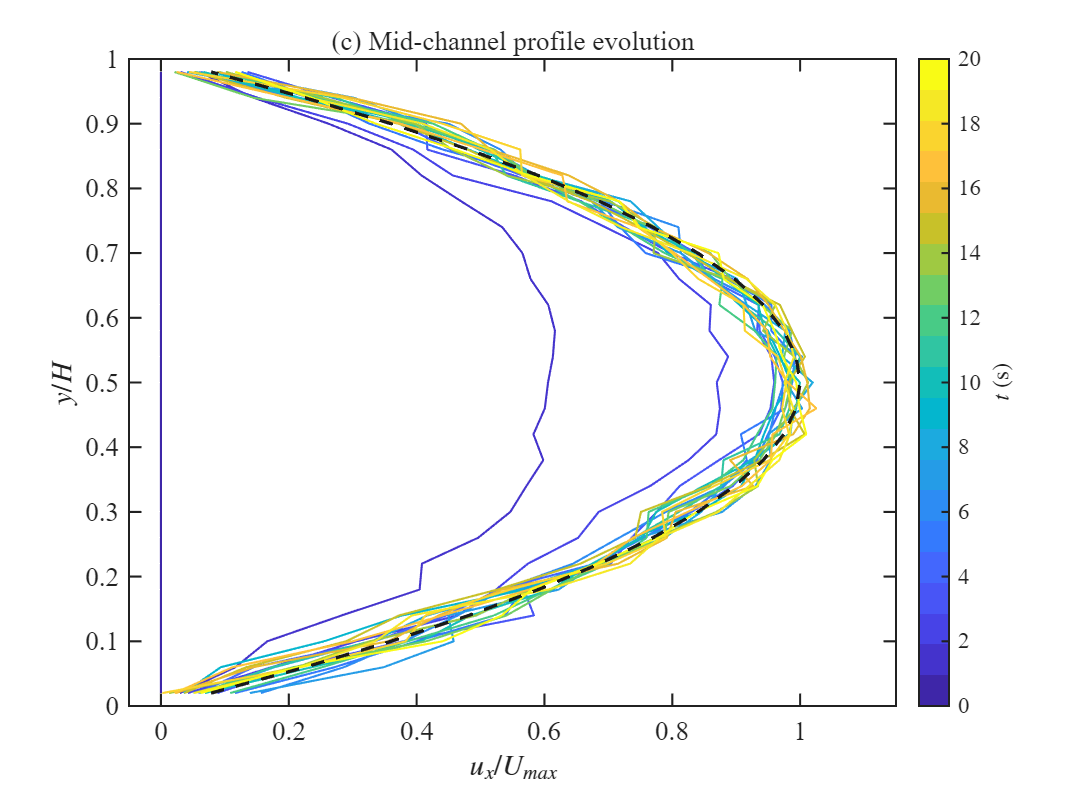
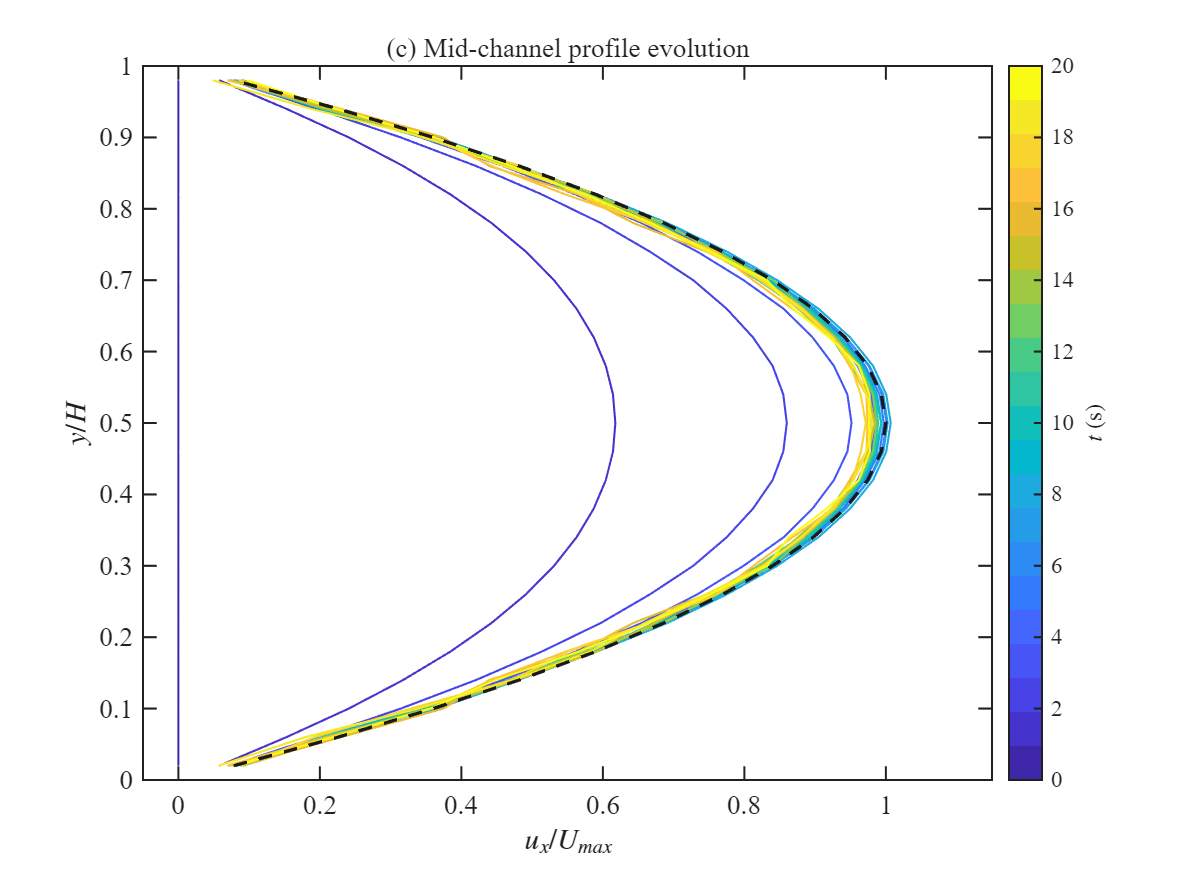
fix(poiseuille): 稳定厚壁通道流动并抑制速度脉动
变更内容：
- 将二维泊肃叶算例主推进从单层 CFL 单步改为 dual-criteria 时间推进：
  外层使用对流/黏性时间步，内层执行声学子步压力/密度松弛。
- 将壁面几何从单层 shell 改为 BW=4dp 的厚壁粒子区。
- 从主循环中移除硬 `bounding_from_wall`，改为依赖物理算子内部已有的虚拟壁压与镜像壁速机制。
- 将 transport correction 改为外层步执行，并为 MEX 增加可配置 `transport_coeff` 参数，当前采用 0.1 的保守设置。
- 周期边界改为 immediate wrap，并保留 minimum-image 邻居搜索。
- 放行并新增回归测试：
  - `test_build_wall_particles_thick`
  - `test_poiseuille_uniformity_regression`
  - `test_poiseuille_longtime_order_regression`

已定位的关键问题（BUG）：
- 原实现采用单层 CFL + 每步较强 transport correction，导致近壁横向扰动持续放大。
- 原单层 shell 壁面支撑不足，且主循环末尾的硬 wall clip 会持续向系统注入非物理扰动。
- 原周期边界仅做包裹/重建，边界邻域连续性不够稳定。

验证结果：
- `test_build_wall_particles_thick: PASS`
- `test_poiseuille_smoke: PASS`
- `test_poiseuille_uniformity_regression: PASS`
- `test_poiseuille_longtime_order_regression: PASS`
- `test_sph_physics_modes: PASS`
- 默认 20s 全长算例完成，`L2 = 2.43%`

效果摘要：
- `u_y RMS` 从约 `16.56% Umax` 降到约 `1.32% Umax`
- 中心带 `u_x std` 降到约 `0.72% Umax`
- 默认 20s 速度场已基本消除沿 x 的明显条纹脉动

风险与影响：
- 当前改动已显著改善速度脉动，但周期边界尚未实现显式 ghost linked-list 插入。
- 长时结果中仍存在层状轻微起伏；当前更像“层内小波纹”，不再是先前的明显横向脉动。
- `.gitignore` 仅放行了本次新增的 3 个测试文件，其余 `tests/` 仍保持忽略策略。

下一步修复计划：
1. 继续完善周期边界邻域连续性处理。
2. 优先检查 `integration_2nd` 的耗散项和周期边界邻域连续性，而不是继续盲调 transport 系数。
3. 如需提交发表/归档结果，可补一份“修改前后关键指标对比”文档或图表。

diff --git a/SPH_Poiseuille.m b/SPH_Poiseuille.m
@@ -1,6 +1,6 @@
 %% SPH_Poiseuille.m
 % 基于 SPH（光滑粒子流体动力学）方法的二维平板泊肃叶流动模拟
-% 采用弱可压缩 SPH + 单层 CFL 时间步进
+% 采用弱可压缩 SPH + dual-criteria 时间步进
 % 计算加速：C/MEX + OpenMP（邻居搜索与物理计算分离）
 
 clear; clc; close all;
@@ -52,7 +52,7 @@ t_end = get_ini_numeric(cfg, 'simulation', 'end_time');
 output_interval = get_ini_numeric(cfg, 'simulation', 'output_interval');
 sort_interval = round(get_ini_numeric(cfg, 'simulation', 'sort_interval'));
 restart_from_file = round(get_ini_numeric(cfg, 'simulation', 'restart_from_file'));
-fprintf('边界模式: 单层 shell 壁面 + 唯一 no-slip\n');
+fprintf('边界模式: 厚壁粒子 + 算子内 no-slip / no-penetration\n');
 
 % 几何参数自动对齐：确保 DL/dp 和 DH/dp 为整数（周期边界 + 均匀粒子排列）
 DL_raw = DL;  DH_raw = DH;
@@ -66,18 +66,19 @@ end
 gravity_g = 12.0 * mu * U_bulk / (rho0 * DH^2);  % 等效体积力（驱动泊肃叶流）
 U_max = 1.5 * U_bulk;                             % 中心线最大速度（2D平板泊肃叶流解析关系）
 h = 1.3 * dp;                                   % 光滑长度
-wall_thickness = dp;                             % shell 壁面厚度
-periodic_buffer = 4.0 * dp;                      % 周期性缓冲层宽度
+wall_thickness = 4.0 * dp;                       % 厚壁宽度，对齐 SPHinXsys 的 BW = 4dp
+periodic_buffer = 0.0;                           % 周期边界立即包裹，不保留额外缓冲带
+transport_coeff = 0.1;                           % dual-criteria 下保守的 shifting 系数
 p0 = rho0 * c_f^2;                              % 参考压力（弱可压缩状态方程）
 inv_sigma0 = dp^2;                               % 核函数归一化因子的倒数
 nu = mu / rho0;                                  % 运动粘度
 
 fprintf('参数: DL=%.3f, DH=%.3f, dp=%.4f, h=%.4f\n', DL, DH, dp, h);
 fprintf('参数: rho0=%.3f, mu=%.3f, U_bulk=%.6f, c_f=%.3f\n', rho0, mu, U_bulk, c_f);
-fprintf('派生: g=%.6f, Umax=%.6f, p0=%.6f\n', gravity_g, U_max, p0);
+fprintf('派生: g=%.6f, Umax=%.6f, p0=%.6f, transport_coeff=%.3f\n', gravity_g, U_max, p0, transport_coeff);
 fprintf('仿真: end_time=%.3f, output_interval=%.3f, sort_interval=%d\n', t_end, output_interval, sort_interval);
-fprintf('周期缓冲层: buffer=%.4f (%.2f*h)\n', periodic_buffer, periodic_buffer / h);
-fprintf('壁面: 单层 shell, thickness=%.4f\n', wall_thickness);
+fprintf('周期边界: immediate wrap + minimum-image neighbor search\n');
+fprintf('壁面: 厚壁粒子区, BW=%.4f (%.0f*dp)\n', wall_thickness, wall_thickness / dp);
 
 if sort_interval <= 0
     error('sort_interval 必须为正整数。');
@@ -91,8 +92,8 @@ y_fluid = (dp/2 : dp : DH - dp/2)';
 pos_fluid = [X_fluid(:), Y_fluid(:)];
 n_fluid = size(pos_fluid, 1);
 
-% 单层 shell 壁面粒子：上下各一层中面，显式携带厚度语义
-[pos_wall, ~, wall_measure, wall_thickness_arr] = build_shell_wall_particles(DL, DH, dp, wall_thickness);
+% 厚壁粒子区：上下各 BW 厚度的规则壁面粒子层
+[pos_wall, wall_normal, wall_measure, wall_thickness_arr] = build_shell_wall_particles(DL, DH, dp, wall_thickness);
 n_wall = size(pos_wall, 1);
 n_total = n_fluid + n_wall;
 
@@ -184,6 +185,7 @@ cfg = struct( ...
     'p0', p0, ...
     'inv_sigma0', inv_sigma0, ...
     'nu', nu, ...
+    'transport_coeff', transport_coeff, ...
     'config_signature', config_signature);
 
 geom = struct( ...
@@ -192,6 +194,7 @@ geom = struct( ...
     'n_total', n_total, ...
     'mass', mass, ...
     'wall_vel', wall_vel, ...
+    'wall_normal', wall_normal, ...
     'wall_measure', wall_measure, ...
     'wall_thickness_arr', wall_thickness_arr);
 
@@ -233,34 +236,55 @@ monitor = struct( ...
 monitor.profile_times(end + 1, 1) = state.t;
 monitor.mid_profile_u(:, end + 1) = u_mid_init;
 
-%% S6: 主循环（单层 CFL 时间步进）
-% 每一步使用统一时间步 dt_step，依次完成力计算、传输修正和两阶段积分。
+%% S6: 主循环（dual-criteria 时间步进）
+% 每个外层对流/黏性步 Dt 只做一次密度求和、核修正、粘性力和传输修正，
+% 然后在 Dt 内部执行多次声学子步推进压力/密度松弛。
 while state.t < cfg.t_end - 1e-12
     target_time = min(state.t + cfg.output_interval, cfg.t_end);
 
     while state.t < target_time - 1e-12
         state.step = state.step + 1;
 
-        dt_step = cfl_time_step(state.vel(1:geom.n_fluid, :), cfg.c_f, cfg.h, target_time - state.t);
-        dt_step = min(dt_step, cfg.t_end - state.t);
-        if dt_step < 1e-14
-            error('时间步长退化为零（dt=%.2e），仿真在 t=%.6f step=%d 发散，请检查 shell 壁面设置。', ...
-                dt_step, state.t, state.step);
+        remain_outer = min(target_time - state.t, cfg.t_end - state.t);
+        Dt_outer = advection_viscous_time_step( ...
+            state.vel(1:geom.n_fluid, :), state.force(1:geom.n_fluid, :), ...
+            state.force_prior(1:geom.n_fluid, :), geom.mass(1:geom.n_fluid), ...
+            cfg.U_bulk, cfg.nu, cfg.h, remain_outer);
+        if Dt_outer < 1e-14
+            error('外层时间步退化为零（Dt=%.2e），仿真在 t=%.6f step=%d 发散。', ...
+                Dt_outer, state.t, state.step);
         end
 
-        vel_before_step = state.vel;
-        state = advance_one_step_mex(state, geom, neighbor, cfg, dt_step, physics_mex_name);
-        [monitor.tau_num_bottom, monitor.tau_num_top] = wall_shear_monitor_mex( ...
-            neighbor, state.pos, vel_before_step, geom.wall_vel, state.Vol, state.B, ...
-            geom.n_fluid, cfg.DL, cfg.DH, cfg.mu, cfg.h, physics_mex_name);
+        [state.rho, state.Vol, state.B] = density_correction_mex( ...
+            neighbor, geom.mass, geom.n_fluid, geom.n_total, cfg, physics_mex_name);
+        state.force_prior = compute_force_prior_mex(state, geom, neighbor, cfg, physics_mex_name);
+        state.pos = transport_correction_mex(state.pos, state.Vol, state.B, neighbor, geom, cfg, physics_mex_name);
 
-        [state.pos, wrapped] = periodic_bounding(state.pos, geom.n_fluid, cfg.DL, cfg.periodic_buffer);
-        if wrapped
-            neighbor = build_neighbor_cache(state.pos, geom.n_fluid, geom.n_total, cfg.h, cfg.DL, neighbor_mex_name);
+        relaxation_time = 0.0;
+        dt_inner = 0.0;
+        while relaxation_time < Dt_outer - 1e-12
+            dt_inner = cfl_time_step(state.vel(1:geom.n_fluid, :), cfg.c_f, cfg.h, Dt_outer - relaxation_time);
+            dt_inner = min(dt_inner, target_time - state.t);
+            dt_inner = min(dt_inner, cfg.t_end - state.t);
+            if dt_inner < 1e-14
+                error('声学时间步退化为零（dt=%.2e），仿真在 t=%.6f step=%d 发散。', ...
+                    dt_inner, state.t, state.step);
+            end
+
+            [state.rho, state.p, state.pos, state.force, state.drho_dt] = integration_1st_mex( ...
+                state, geom, neighbor, cfg, dt_inner, physics_mex_name);
+            state.vel = update_velocity(state.vel, geom.mass, state.force_prior, state.force, geom.n_fluid, geom.n_total, dt_inner);
+            [state.pos, state.drho_dt] = integration_2nd_mex( ...
+                state, geom, neighbor, dt_inner, physics_mex_name);
+            state.rho(1:geom.n_fluid) = state.rho(1:geom.n_fluid) + state.drho_dt(1:geom.n_fluid) * (0.5 * dt_inner);
+            state.p(1:geom.n_fluid) = cfg.p0 * (state.rho(1:geom.n_fluid) ./ cfg.rho0 - 1.0);
+            state.p(geom.n_fluid+1:end) = 0.0;
+
+            relaxation_time = relaxation_time + dt_inner;
+            state.t = state.t + dt_inner;
         end
 
         [state.pos, ~] = periodic_bounding(state.pos, geom.n_fluid, cfg.DL, cfg.periodic_buffer);
-        state.pos = bounding_from_wall(state.pos, geom.n_fluid, cfg.DH, cfg.dp);
         state.vel(geom.n_fluid+1:end, :) = 0.0;
 
         if mod(state.step, cfg.sort_interval) == 0 && state.step ~= 1
@@ -270,15 +294,17 @@ while state.t < cfg.t_end - 1e-12
                 state.force_prior, state.force, state.p, state.Vol, state.B, ...
                 geom.n_fluid, cfg.DL, cfg.h);
         end
-        neighbor = build_neighbor_cache(state.pos, geom.n_fluid, geom.n_total, cfg.h, cfg.DL, neighbor_mex_name);
 
-        state.t = state.t + dt_step;
+        neighbor = build_neighbor_cache(state.pos, geom.n_fluid, geom.n_total, cfg.h, cfg.DL, neighbor_mex_name);
+        [monitor.tau_num_bottom, monitor.tau_num_top] = wall_shear_monitor_mex( ...
+            neighbor, state.pos, state.vel, geom.wall_vel, state.Vol, state.B, ...
+            geom.n_fluid, cfg.DL, cfg.DH, cfg.mu, cfg.h, physics_mex_name);
 
         if mod(state.step, 20) == 0
             vmax = max(vecnorm(state.vel(1:geom.n_fluid, :), 2, 2));
-            fprintf('step=%d, t=%.6f/%.6f, dt=%.4e, pairs=%d, vmax=%.4f\n', ...
-                state.step, state.t, cfg.t_end, dt_step, numel(neighbor.pair_i), vmax);
-            fprintf('  [shell-noslip] tau_bot=%.4f, tau_top=%.4f, tau_target=%.4f\n', ...
+            fprintf('step=%d, t=%.6f/%.6f, Dt=%.4e, dt=%.4e, pairs=%d, vmax=%.4f\n', ...
+                state.step, state.t, cfg.t_end, Dt_outer, dt_inner, numel(neighbor.pair_i), vmax);
+            fprintf('  [thick-wall-noslip] tau_bot=%.4f, tau_top=%.4f, tau_target=%.4f\n', ...
                 monitor.tau_num_bottom, monitor.tau_num_top, monitor.tau_target);
         end
     end
@@ -534,6 +560,65 @@ function neighbor = build_neighbor_cache(pos, n_fluid, n_total, h, DL, neighbor_
         'dW_ij', dW_ij);
 end
 
+function [rho, Vol, B] = density_correction_mex(neighbor, mass, n_fluid, n_total, cfg, physics_mex_name)
+    [rho, Vol, B] = feval( ...
+        physics_mex_name, 'density_correction', ...
+        neighbor.pair_i, neighbor.pair_j, neighbor.dx_ij, neighbor.dy_ij, neighbor.r_ij, neighbor.W_ij, neighbor.dW_ij, ...
+        mass, n_fluid, n_total, cfg.rho0, cfg.h, cfg.inv_sigma0);
+end
+
+function force_prior = compute_force_prior_mex(state, geom, neighbor, cfg, physics_mex_name)
+    force_prior = feval( ...
+        physics_mex_name, 'viscous_force', ...
+        neighbor.pair_i, neighbor.pair_j, neighbor.dx_ij, neighbor.dy_ij, neighbor.r_ij, neighbor.dW_ij, ...
+        state.vel, state.Vol, state.B, cfg.mu, cfg.h, geom.n_fluid, geom.n_total, geom.mass, geom.wall_vel);
+    force_prior(1:geom.n_fluid, 1) = force_prior(1:geom.n_fluid, 1) + geom.mass(1:geom.n_fluid) * cfg.gravity_g;
+    force_prior(geom.n_fluid+1:end, :) = 0.0;
+end
+
+function pos = transport_correction_mex(pos, Vol, B, neighbor, geom, cfg, physics_mex_name)
+    pos = feval( ...
+        physics_mex_name, 'transport_correction', ...
+        neighbor.pair_i, neighbor.pair_j, neighbor.dx_ij, neighbor.dy_ij, neighbor.r_ij, neighbor.dW_ij, ...
+        Vol, B, pos, cfg.h, geom.n_fluid, geom.n_total, cfg.transport_coeff);
+end
+
+function [rho, p, pos, force, drho_dt] = integration_1st_mex(state, geom, neighbor, cfg, dt_step, physics_mex_name)
+    [rho, p, pos, force, drho_dt] = feval( ...
+        physics_mex_name, 'integration_1st', ...
+        neighbor.pair_i, neighbor.pair_j, neighbor.dx_ij, neighbor.dy_ij, neighbor.r_ij, neighbor.dW_ij, ...
+        state.Vol, state.B, state.rho, geom.mass, state.pos, state.vel, state.drho_dt, state.force_prior, ...
+        dt_step, geom.n_fluid, geom.n_total, cfg.rho0, cfg.p0, cfg.c_f, geom.wall_vel);
+end
+
+function vel = update_velocity(vel, mass, force_prior, force, n_fluid, n_total, dt_step)
+    acc_fluid = (force_prior(1:n_fluid, :) + force(1:n_fluid, :)) ./ mass(1:n_fluid);
+    vel(1:n_fluid, :) = vel(1:n_fluid, :) + acc_fluid * dt_step;
+    vel(n_fluid+1:n_total, :) = 0.0;
+end
+
+function [pos, drho_dt] = integration_2nd_mex(state, geom, neighbor, dt_step, physics_mex_name)
+    [pos, drho_dt, ~] = feval( ...
+        physics_mex_name, 'integration_2nd', ...
+        neighbor.pair_i, neighbor.pair_j, neighbor.dx_ij, neighbor.dy_ij, neighbor.r_ij, neighbor.dW_ij, ...
+        state.Vol, state.rho, state.pos, state.vel, dt_step, geom.n_fluid, geom.n_total, geom.wall_vel);
+end
+
+function Dt = advection_viscous_time_step(vel, force, force_prior, mass, U_ref, nu, h, remain)
+% Dual-criteria 外层时间步：对流/黏性尺度控制一次配置更新的间隔
+    accel_norm = vecnorm(force + force_prior, 2, 2);
+    accel_scale = 4.0 * h * accel_norm ./ max(mass, eps);
+    speed_sq = vecnorm(vel, 2, 2) .^ 2;
+    speed_max = sqrt(max([speed_sq; accel_scale; 0.0]));
+    speed_ref = max(U_ref, nu / max(h, eps));
+    Dt = min(0.25 * h / max(max(speed_max, speed_ref), 1e-12), remain);
+    Dt = max(Dt, 1e-12);
+end
+
+function sink = void_buffer(~)
+    sink = [];
+end
+
 function state = advance_one_step_mex(state, geom, neighbor, cfg, dt_step, physics_mex_name)
     [state.rho, state.p, state.pos, state.vel, state.drho_dt, state.force, state.force_prior, state.Vol, state.B] = feval( ...
         physics_mex_name, 'advance_shell_step', ...
@@ -630,7 +715,7 @@ function value = get_ini_numeric(cfg, section, key)
 end
 
 function sig = create_config_signature(DL, DH, dp, rho0, mu, U_bulk, c_f, t_end, output_interval, sort_interval)
-    sig = sprintf('DL=%.12g|DH=%.12g|dp=%.12g|rho0=%.12g|mu=%.12g|Ub=%.12g|cf=%.12g|t=%.12g|oi=%.12g|si=%d|wall=single-shell-noslip', ...
+    sig = sprintf('DL=%.12g|DH=%.12g|dp=%.12g|rho0=%.12g|mu=%.12g|Ub=%.12g|cf=%.12g|t=%.12g|oi=%.12g|si=%d|wall=thick-wall-noslip-dual-dt', ...
         DL, DH, dp, rho0, mu, U_bulk, c_f, t_end, output_interval, sort_interval);
 end
 
@@ -685,22 +770,12 @@ function idx = sort_subset_indices(pos_sub, DL, h)
 end
 
 function [pos, wrapped] = periodic_bounding(pos, n_fluid, DL, buffer_width)
-% X 方向周期性边界：超出 [−buffer, DL+buffer] 的粒子平移回域内
+% X 方向周期性边界：粒子越界后立即包裹回 [0, DL)
     x = pos(1:n_fluid, 1);
-    wrapped = false;
-    left_mask = (x < -buffer_width);
-    while any(left_mask)
-        x(left_mask) = x(left_mask) + DL;
-        wrapped = true;
-        left_mask = (x < -buffer_width);
-    end
-    right_mask = (x >= DL + buffer_width);
-    while any(right_mask)
-        x(right_mask) = x(right_mask) - DL;
-        wrapped = true;
-        right_mask = (x >= DL + buffer_width);
-    end
-    pos(1:n_fluid, 1) = x;
+    x_wrapped = mod(x, DL);
+    wrapped = any(abs(x_wrapped - x) > 1e-12);
+    pos(1:n_fluid, 1) = x_wrapped;
+    void_buffer(buffer_width);
 end
 
 function [y_mid, u_mean] = compute_binned_profile_mean(y_values, u_values, y_min, y_max, n_bins)

diff --git a/mex/sph_physics_mex.c b/mex/sph_physics_mex.c
@@ -546,11 +546,12 @@ static void mode_viscous_force(int nlhs, mxArray *plhs[], int nrhs, const mxArra
  *   流体-壁面对：inc_i += -2 * dW * Vol_j * B_i·e（单侧，系数 2 来自镜像对称）
  *
  * 限幅：limiter = clamp(100 * |inc|² / h², 0, 1)
- *   pos_i += 0.2 * h² * limiter * inc_i
+ *   pos_i += transport_coeff * h² * limiter * inc_i
  *
- * 输入（prhs[1..12]）：
+ * 输入（prhs[1..12] 或 prhs[1..13]）：
  *   pair_i, pair_j, dx, dy, r, dW  — 粒子对数据
  *   Vol[n_total], B[n_total×4], pos[n_total×2], h, n_fluid, n_total
+ *   transport_coeff（可选，默认 0.2）
  * 输出（plhs[0]）：pos[n_total×2]（修正后位置）
  */
 static void mode_transport_correction(int nlhs, mxArray *plhs[], int nrhs, const mxArray *prhs[])
@@ -568,6 +569,7 @@ static void mode_transport_correction(int nlhs, mxArray *plhs[], int nrhs, const
     int n_fluid;
     int n_total;
     double h;
+    double transport_coeff = 0.2;
     const double *pos_x;
     const double *pos_y;
     double *pos_out;
@@ -577,8 +579,8 @@ static void mode_transport_correction(int nlhs, mxArray *plhs[], int nrhs, const
     double *inc_y;
     int k;  /* Changed from mwSize to int for OpenMP compatibility */
 
-    require_count(nrhs == 13, "SPH:Physics:transport:nrhs",
-                  "transport_correction expects 13 inputs after mode.");
+    require_count(nrhs == 13 || nrhs == 14, "SPH:Physics:transport:nrhs",
+                  "transport_correction expects 12 or 13 inputs after mode.");
     require_count(nlhs == 1, "SPH:Physics:transport:nlhs",
                   "transport_correction expects 1 output.");
 
@@ -590,6 +592,11 @@ static void mode_transport_correction(int nlhs, mxArray *plhs[], int nrhs, const
     h = mxGetScalar(prhs[10]);
     n_fluid = (int)mxGetScalar(prhs[11]);
     n_total = (int)mxGetScalar(prhs[12]);
+    if (nrhs == 14) {
+        transport_coeff = mxGetScalar(prhs[13]);
+    }
+    require_count(transport_coeff >= 0.0, "SPH:Physics:transport:coeff",
+                  "transport_coeff must be non-negative.");
 
     require_count(mxGetNumberOfElements(prhs[7]) == (mwSize)n_total,
                   "SPH:Physics:transport:Vol", "Vol size mismatch.");
@@ -683,7 +690,7 @@ static void mode_transport_correction(int nlhs, mxArray *plhs[], int nrhs, const
     for (int i = 0; i < n_fluid; ++i) {
         double n2 = inc_x[i] * inc_x[i] + inc_y[i] * inc_y[i];
         double limiter = 100.0 * n2 / (h * h);
-        double scale = 0.2 * h * h;
+        double scale = transport_coeff * h * h;
         if (limiter > 1.0) limiter = 1.0;
         if (limiter < 0.0) limiter = 0.0;
         pos_out_x[i] += scale * limiter * inc_x[i];

diff --git a/build_shell_wall_particles.m b/build_shell_wall_particles.m
@@ -1,5 +1,5 @@
 function [pos_wall, wall_normal, wall_measure, wall_thickness_arr] = build_shell_wall_particles(DL, DH, dp, wall_thickness)
-%BUILD_SHELL_WALL_PARTICLES 生成上下单层 shell 壁面粒子及其几何元数据。
+%BUILD_SHELL_WALL_PARTICLES 生成上下厚壁粒子区及其几何元数据。
     if nargin < 4
         error('build_shell_wall_particles 需要输入 DL, DH, dp, wall_thickness。');
     end
@@ -7,14 +7,28 @@ function [pos_wall, wall_normal, wall_measure, wall_thickness_arr] = build_shell
         error('DL, DH, dp 和 wall_thickness 必须为正数。');
     end
 
-    x_wall = (dp/2 : dp : DL - dp/2)';
-    nx = numel(x_wall);
+    n_layers = round(wall_thickness / dp);
+    if abs(n_layers * dp - wall_thickness) > 1e-12
+        error('wall_thickness 必须是 dp 的整数倍。');
+    end
+    if n_layers < 1
+        error('wall_thickness 至少需要一层粒子。');
+    end
 
-    pos_bottom = [x_wall, -0.5 * dp * ones(nx, 1)];
-    pos_top = [x_wall, (DH + 0.5 * dp) * ones(nx, 1)];
+    x_wall = (dp / 2 : dp : DL - dp / 2)';
+    y_bottom = ((-wall_thickness + dp / 2) : dp : (-dp / 2))';
+    y_top = ((DH + dp / 2) : dp : (DH + wall_thickness - dp / 2))';
+
+    [X_bottom, Y_bottom] = meshgrid(x_wall, y_bottom);
+    [X_top, Y_top] = meshgrid(x_wall, y_top);
+
+    pos_bottom = [X_bottom(:), Y_bottom(:)];
+    pos_top = [X_top(:), Y_top(:)];
     pos_wall = [pos_bottom; pos_top];
 
-    wall_normal = [repmat([0.0, -1.0], nx, 1); repmat([0.0, 1.0], nx, 1)];
-    wall_measure = dp * ones(2 * nx, 1);
-    wall_thickness_arr = wall_thickness * ones(2 * nx, 1);
+    n_bottom = size(pos_bottom, 1);
+    n_top = size(pos_top, 1);
+    wall_normal = [repmat([0.0, -1.0], n_bottom, 1); repmat([0.0, 1.0], n_top, 1)];
+    wall_measure = dp * ones(n_bottom + n_top, 1);
+    wall_thickness_arr = dp * ones(n_bottom + n_top, 1);
 end
